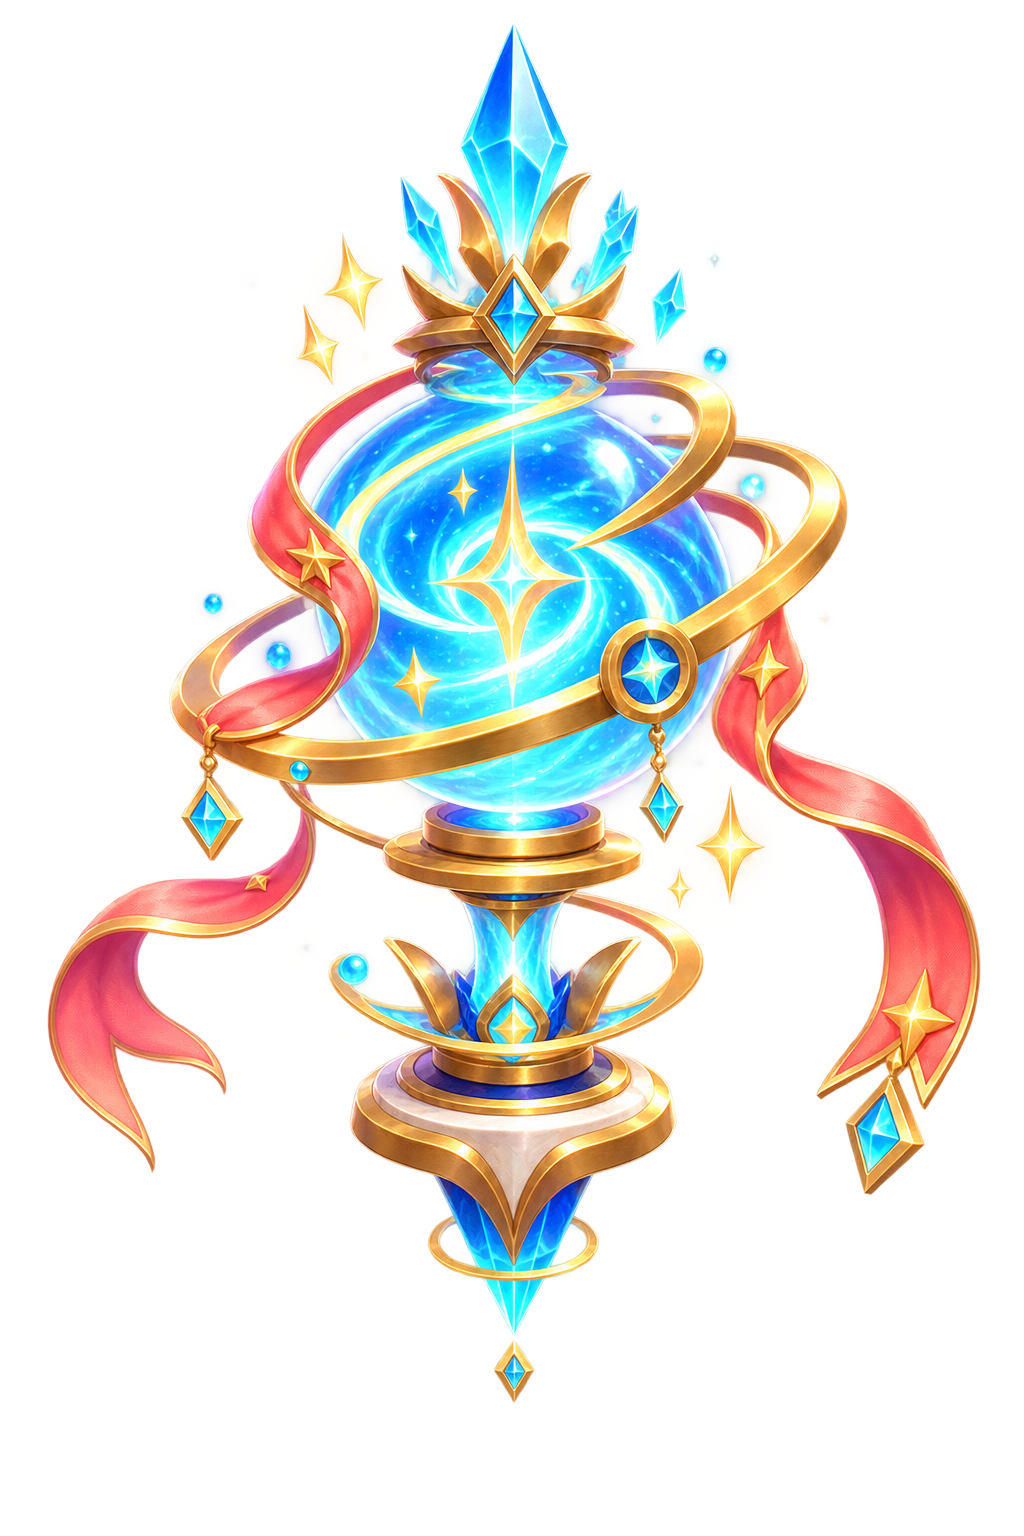
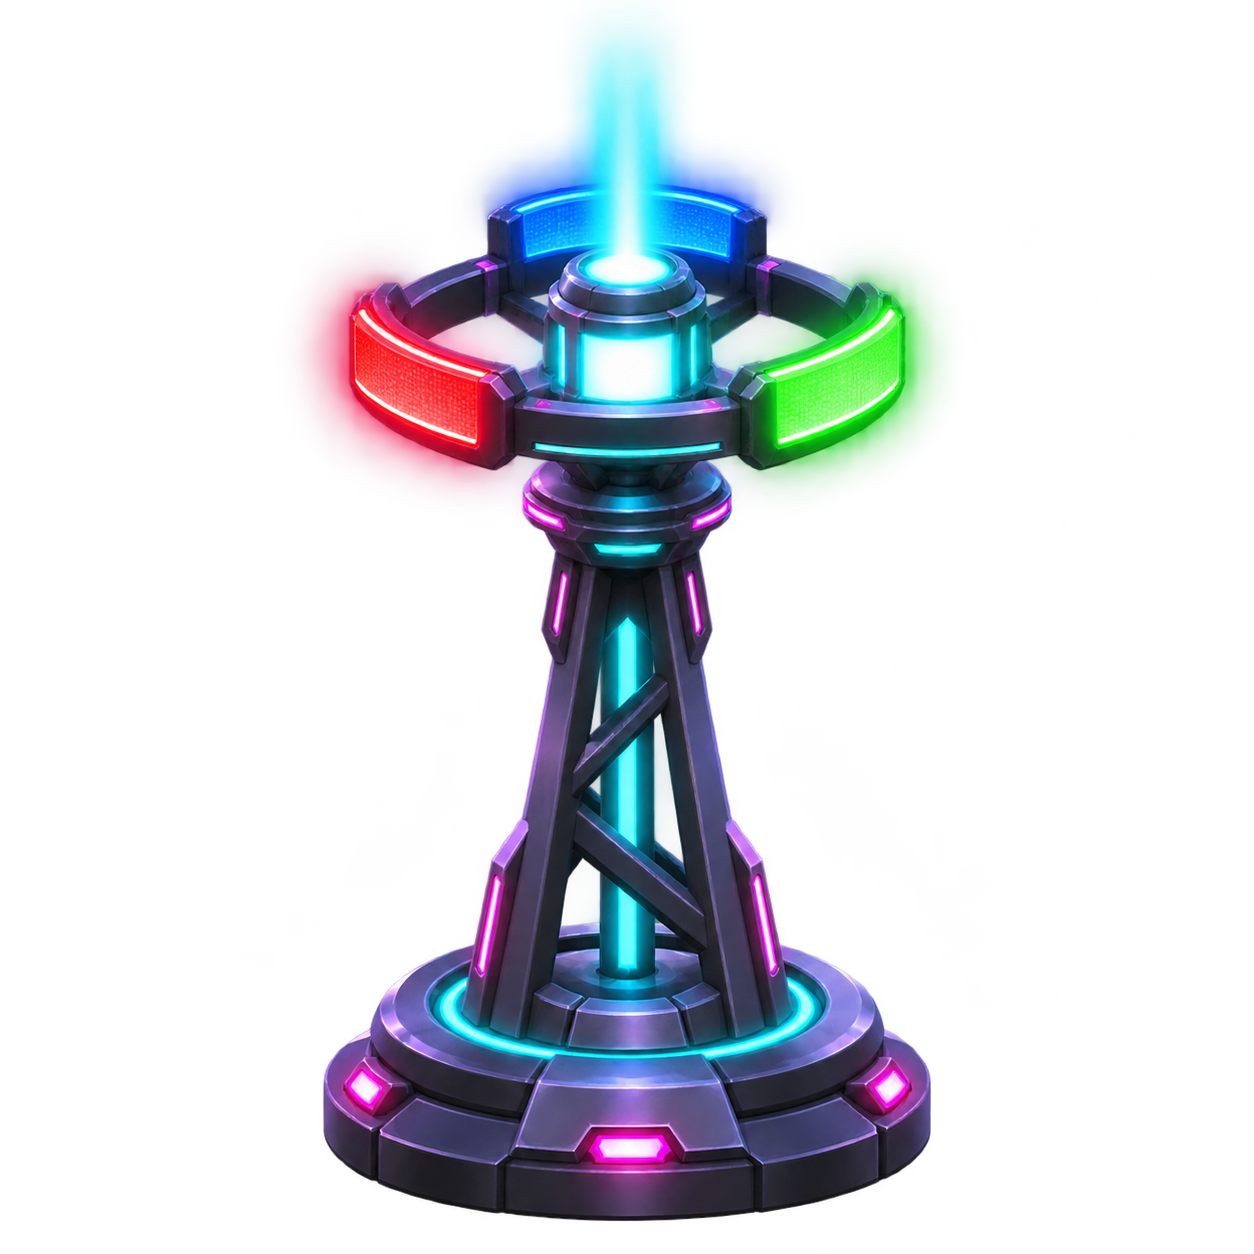
feat: replace lobby illustrations with final themed art
All three Lobby themes (Color Courtyard, Neon Garden, Sky Festival) now
use the final Background, midground symbol and Ambient layers made from
the lobby illustration prompts. Backgrounds are centre-cropped to 9:16;
the midground symbols were regenerated to remove baked glow haze. File
names, import settings and layout are unchanged.

diff --git a/Docs/CURRENT_STATUS.md b/Docs/CURRENT_STATUS.md
@@ -1,5 +1,21 @@
 # Current Status
 
+## Iteration 65 — Lobby Illustrations (2026-11-05 KST)
+
+- 기준: `c156e9a`(Iteration 74) 위에서 진행했다. Unity `6000.5.1f1`, 최종 검증 시 Editor 종료/lock 없음.
+  Push 없음.
+- 세 로비 테마(Color Courtyard, Neon Garden, Sky Festival)의 Background·가운데 상징물·Ambient 9장을
+  사용자가 `LOBBY_ILLUSTRATION_PROMPTS.md`로 ChatGPT에서 만든 그림으로 교체했다. 파일 이름과 경로,
+  가져오기 설정은 그대로다. Background는 가운데 9:16(864×1536)을 잘라 941×1672로 맞췄고, 상징물
+  (1254×1254)과 Ambient(1024×1536)는 받은 그대로 넣었다. 화면은 비율을 유지해 맞추므로 코드 변경은 없다.
+- 첫 상징물 2장(Color Courtyard, Neon Garden)은 빛 주변에 회백색 얼룩과 체크무늬 구멍이 박혀 있어
+  사용자가 다시 만들었다. 세 상징물 모두 다시 만든 그림이다.
+- 자동 검증: **EditMode `580/580` passed; PlayMode `292` passed, `1` intentional opt-in ignore**. Frontend
+  Builder 포함 Builder 각 2회(Scene은 ID 재배치, 재질은 공백만 바뀌어 복원). 그래픽 캡처 1080×1920,
+  720×1280. Product 저장 파일과 Campaign PlayerPrefs 전후 동일. 근거: `Artifacts/Validation/Iteration65/`,
+  `Artifacts/Validation/VisualQC/LobbyHome-*.png`.
+- 사람 판단: 사용자가 세 테마 캡처를 보고 승인했다.
+
 ## Iteration 74 — Per-Stage Music Themes (2026-11-05 KST)
 
 - 기준: `14f75d1`(Iteration 73) 위에서 구현했다. Unity `6000.5.1f1`, 최종 검증 시 Editor 종료/lock

diff --git a/Docs/LOBBY_ILLUSTRATION_PROMPTS.md b/Docs/LOBBY_ILLUSTRATION_PROMPTS.md
@@ -191,6 +191,7 @@ corners. Leave the central vertical band (30–70% of the width) and the bottom
 - 글자나 로고가 생겼을 때: `Remove all text, letters, signs and logos completely.`
 - 아래쪽이 복잡할 때: `Make the bottom third almost empty and dark, only a plain floor.`
 - 투명 배경이 아닐 때: `Output as a PNG with a truly transparent background, no checkerboard, no backdrop.`
+- 빛 주변에 회백색 얼룩이나 체크무늬 구멍이 남을 때(Iteration 65에서 실제로 생김): `Transparent PNG with true alpha. The glow must be colored light that fades smoothly into full transparency. No checkerboard pattern, no white or gray haze, no background fragments around the object. Keep the glow tight around the object.`
 - 세 테마 톤이 다를 때: 첫 테마 Background를 대화에 다시 올리고 `Match the lighting, palette and rendering style of this image.`
 
 ## 6. 받은 뒤 Claude가 하는 일

diff --git a/Docs/ART_DIRECTION.md b/Docs/ART_DIRECTION.md
@@ -1148,3 +1148,15 @@ This section supersedes Iteration 47's separate additive frame trace.
   Gold, an owned crown uses Signal and a missing crown uses dim
   TextSecondary. Reward rows start lower to make room. REPLAY and LOBBY share
   the bottom row under the primary action.
+
+## Iteration 65 lobby illustrations
+
+- All three Lobby themes now use final illustrations made from
+  `LOBBY_ILLUSTRATION_PROMPTS.md`. Theme 2 and Theme 3 are no longer palette
+  fallbacks.
+- Background layers are opaque. Midground symbols and Ambient layers carry
+  true alpha: solid parts are opaque and glow fades into full transparency,
+  with no baked haze or checkerboard.
+- Color Courtyard keeps the faceted crystal with six attachment nodes, Neon
+  Garden uses a crystal tree with Red, Blue and Green blooms, and Sky Festival
+  uses a beacon tower with Red, Blue and Green panels.

diff --git a/Docs/TEST_PLAN.md b/Docs/TEST_PLAN.md
@@ -1270,6 +1270,19 @@ fairness, or polish.
   PlayerPrefs exact.
 
 
+### Iteration 65 lobby illustrations
+
+- Existing EditMode lobby tests still check the sprite import settings of all
+  nine layers and that the transparent layers hold real transparent and opaque
+  pixels.
+- Tool evidence: alpha inspection of every delivered layer (no visible pixels
+  on midground edges, no baked haze), and graphics captures of all three
+  themes at 1080x1920 and 720x1280.
+- Human review: mood, consistency across the three themes and UI readability
+  over the art. The user approved the captures.
+- Final evidence: Builders `2/2`; EditMode `580/580`; PlayMode `292` passed,
+  `1` intentional opt-in ignore; Product save and Campaign PlayerPrefs exact.
+
 ### Iteration 74 per-Stage music themes
 
 - EditMode `Catalog_EveryStageTrackIsDistinctAudio`: no two Stage clips share

diff --git a/Docs/DECISIONS.md b/Docs/DECISIONS.md
@@ -1911,6 +1911,12 @@ Status: Approved and implemented.
 
 
 
+## Iteration 65 lobby illustrations (2026-11-05 기록)
+
+- 사용자 결정: 로비 일러스트는 Claude가 쓴 프롬프트로 사용자가 ChatGPT에서 직접 만든다.
+- 사용자 결정: 얼룩이 박힌 상징물은 자동 보정 대신 다시 만든다. 다시 만든 세 상징물로 교체했다.
+- 사용자 결정: 세 테마 로비 캡처를 보고 최종 승인했다.
+
 ## Iteration 74 per-Stage music themes (2026-11-05 기록)
 
 - 사용자 결정: 26개 Stage 곡을 모두 다른 테마로 만든다. 샘플(Stage 2, 13, 25)을 듣고 방향을 승인했다.
